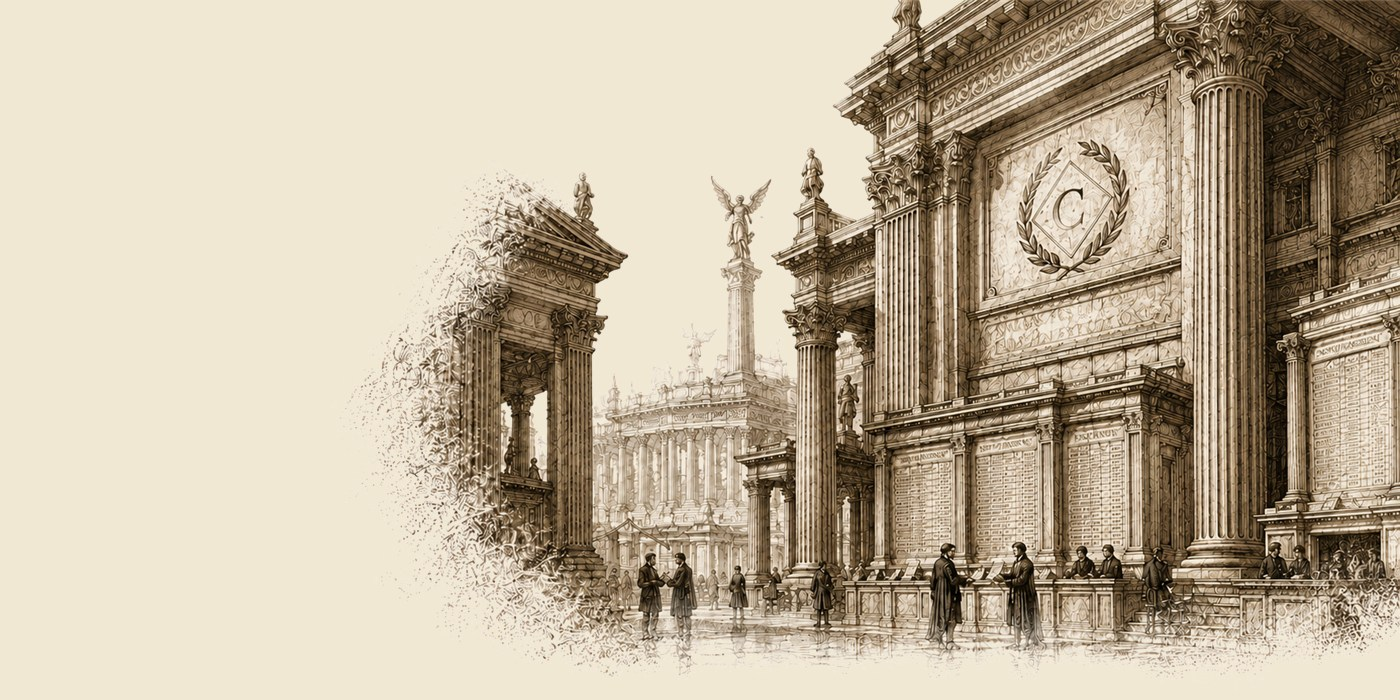
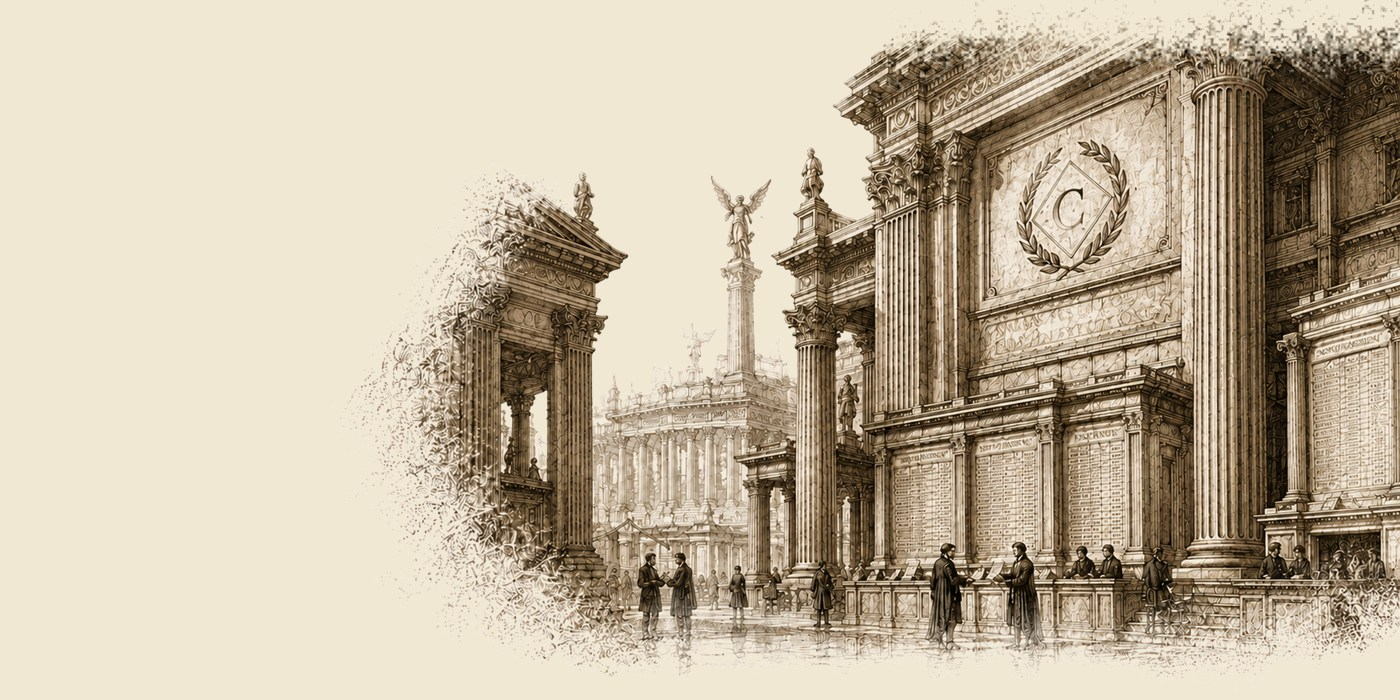
polish(market hero): dissolve the plate's top edge, lift the composition, fix the wrap
COMPOSITION WAS NOT TOO LOW — THE BOX WAS TOO TALL. align-items: center was
faithfully centring a fixed amount of content inside 748px of surplus. Shrinking
the box to 680 moves the centre up by half the difference and the smaller top
pad by half of that, ~52px, without touching a single position on the content.

THE PLATE HAD A HARD HORIZONTAL CUT ALONG ITS TOP. Measured, not assumed: mean
alpha at row 0 was 83 and the top 5% of the source carried 31.8% ink coverage,
so the architecture ran straight off the edge of its own canvas. A CSS gradient
mask would have removed it and looked like a digital wipe laid over an engraving.
tools/make-clearinghouse-plate.ps1 now thresholds a two-octave noise field
against depth so the ink breaks into speckle the way a copperplate does as the
inked area runs out — matching the plate's own left edge. First pass at 5/19px
read blocky against that stipple, so the octaves are 2.6/11px with a wider soft
window. Regenerating is idempotent; the asset stays ~250KB.

THE ARTWORK NOW ACTUALLY BLEEDS. Sized to fit, it stopped exactly at the
viewport edge and read as a picture placed on the page rather than a hall
continuing past it. Width is over-set by 190px under overflow: hidden, and it is
bounded — ~86% of the plate stays visible at 1440 and the laurel C ends at 81%,
so emblem, Victory, columns and operators are all clear of the cut. Shifted 30px
left and 20px up as asked.
[…]

Changed region(s): [[0.6143, 0.0, 1.0, 0.12]]

diff --git a/FRONTEND/src/views/ActiveContracts.js b/FRONTEND/src/views/ActiveContracts.js
@@ -176,7 +176,13 @@ export function renderActiveContracts() {
                survive the rewrite and quietly apply to something. */
             .mkh {
                 position: relative;
-                min-height: 748px;
+                /* 680, not 748. The composition was not too low — the BOX was too
+                   tall, and align-items: center was faithfully centring a fixed
+                   amount of content inside the surplus. Shortening the box moves
+                   the centre up by half the difference, and the smaller top pad
+                   moves it up by half of that: ~52px, without touching a single
+                   position on the content itself. */
+                min-height: 680px;
                 display: flex;
                 flex-direction: column;
                 overflow: hidden;
@@ -191,7 +197,7 @@ export function renderActiveContracts() {
                 max-width: 1760px;
                 width: 100%;
                 margin: 0 auto;
-                padding: 56px var(--mkh-gutter) 40px;
+                padding: 20px var(--mkh-gutter) 40px;
                 box-sizing: border-box;
             }
 
@@ -203,19 +209,34 @@ export function renderActiveContracts() {
                is 254KB for the same result. There is no boundary to hide because
                the plate's ground and the page's ground are the same value.
 
-               contain, not cover: the whole plate stays visible including the
-               irregular dissolve down its left side, and the empty cream margins
-               contain leaves are invisible for the same reason.
+               THE TOP EDGE IS DISSOLVED IN THE ASSET, NOT IN CSS. The original's
+               architecture ran straight off the top of its own canvas, leaving a
+               hard horizontal cut — a rectangular asset boundary. A CSS gradient
+               mask would have removed it, but a uniform fade reads as a digital
+               wipe laid over an engraving. tools/make-clearinghouse-plate.ps1
+               instead thresholds a two-octave noise field against depth, so the
+               ink breaks up into speckle the way a copperplate does as the inked
+               area runs out — the same character as the plate's left edge.
 
-               THE ELEMENT REACHES LEFT TO 32%, WELL UNDER THE COPY, and that is
-               deliberate rather than sloppy. The plate's own left third is bare
-               cream, so extending the box lets the engraving render larger
-               without the drawn part ever reaching the text. Only cream overlaps
-               the copy column. */
+               THE ELEMENT REACHES LEFT UNDER THE COPY, and that is deliberate
+               rather than sloppy: the plate's own left quarter is bare cream
+               (measured — 0.0% ink coverage out to 25%), so extending the box
+               lets the engraving render larger without the drawn part ever
+               reaching the text. Only cream overlaps the copy column.
+
+               WIDTH IS OVER-SET SO THE RIGHT ARCHITECTURE BLEEDS. Sized to fit,
+               the plate would stop exactly at the viewport edge and read as a
+               picture placed on the page rather than a hall continuing past it.
+               The extra 160px runs under .mkh's overflow: hidden. It is bounded:
+               ~86% of the plate stays visible at 1440, and the laurel C ends at
+               81%, so the emblem, Victory, the principal columns and the
+               operators are all clear of the cut. */
             .mkh-art {
                 position: absolute;
-                top: 0; right: 0; bottom: 0; left: 32%;
-                background: url("/assets/images/market-clearinghouse.jpg") center center / contain no-repeat;
+                top: 0; bottom: 0; right: auto;
+                left: calc(32% - 30px);
+                width: calc(68% + 190px);
+                background: url("/assets/images/market-clearinghouse.jpg") left calc(50% - 20px) / 100% auto no-repeat;
                 pointer-events: none;
                 z-index: 0;
             }
@@ -240,11 +261,28 @@ export function renderActiveContracts() {
                 margin: 0 0 28px;
             }
             .mkh-h1 .ox { color: var(--mkh-ox); }
+            /* MEASURE IS SET TO THE SECOND LINE, WHICH IS THE LONGEST. The wrap
+               wanted is
+                 Back verified operators—or stake on your own
+                 performance. Every contract settles automatically
+                 against live business data.
+               so the measure has to clear "…settles automatically" and fall short
+               of taking "against" up with it. Measured rather than guessed: that
+               window is NARROW and lower than it looks. Measured in EB Garamond
+               at 19px:
+                 line 1 alone ................................. 335px
+                 line 2 alone ................................. 354px  <- floor
+                 line 1 + "performance." ...................... 435px
+                 line 2 + "against" ........................... 408px  <- ceiling
+               so the measure has to sit in 355–407, and 384 is the middle of it.
+               Anything at or above 435 collapses to two lines and strands
+               "Every" at the end of the first — which is exactly what the old
+               500px was doing. */
             .mkh-lede {
                 font-family: "EB Garamond", Georgia, serif;
                 font-size: 19px; line-height: 1.58;
                 color: #4A4232;
-                max-width: 500px; margin: 0 0 40px;
+                max-width: 384px; margin: 0 0 28px;
             }
 
             .mkh-actions { display: flex; align-items: center; gap: 30px; }
@@ -274,11 +312,23 @@ export function renderActiveContracts() {
                 display: inline-flex; align-items: center; gap: 12px; padding: 4px 0;
             }
             .mkh-link .t { position: relative; display: inline-block; }
+            /* TWO RULES, BECAUSE ONE CANNOT DO BOTH JOBS. The resting underline
+               is part of the design, and the wipe is the interaction — but
+               scaleX from 1 to 1 is not a wipe. So ::before is the quiet resting
+               hairline and ::after is the full-strength rule that wipes in over
+               it from the left. Both live on .t, which wraps the label only, so
+               they measure the words and not the words plus a travelling arrow. */
+            .mkh-link .t::before,
             .mkh-link .t::after {
                 content: ""; position: absolute; left: 0; right: 0; bottom: -4px; height: 1px;
-                background: var(--mkh-ox); transform: scaleX(1); transform-origin: left center;
-                transition: transform 200ms ease-out;
+                background: var(--mkh-ox);
             }
+            .mkh-link .t::before { opacity: .34; }
+            .mkh-link .t::after {
+                transform: scaleX(0); transform-origin: left center;
+                transition: transform 260ms cubic-bezier(.22,.61,.36,1);
+            }
+            .mkh-link:hover .t::after, .mkh-link:focus-visible .t::after { transform: scaleX(1); }
             .mkh-link .a { color: var(--mkh-ox); display: inline-block; transition: transform 200ms ease-out; }
             .mkh-link:hover .a, .mkh-link:focus-visible .a { transform: translateX(4px); }
 
@@ -336,7 +386,10 @@ export function renderActiveContracts() {
             /* ---- responsive ---- */
             @media (max-width: 1180px) {
                 .mkh-copy { width: 50%; }
-                .mkh-art { left: 38%; }
+                /* Narrower viewport, so the plate steps right to stay off the
+                   copy — and the bleed shrinks with it, because 190px of
+                   overflow on a 1000px screen would cut into the emblem. */
+                .mkh-art { left: calc(38% - 30px); width: calc(62% + 110px); }
             }
             @media (max-width: 900px) {
                 /* Stacked: copy first, plate beneath the actions. The plate goes
@@ -350,16 +403,35 @@ export function renderActiveContracts() {
                    Explicit order puts the copy first without moving the markup,
                    which leaves the desktop stacking context alone. */
                 .mkh-copy { width: 100%; max-width: none; order: 1; }
-                .mkh-art { order: 2; }
                 /* !important ANSWERS AN !important. mobile.css sets a bare
                    h1 { font-size: clamp(24px,7vw,36px) !important } below 768px,
                    which captured this headline at 27.3px — 7vw of 390 exactly.
                    No class outranks !important, so this replies in kind. */
                 .mkh h1.mkh-h1 { font-size: clamp(44px, 9vw, 64px) !important; line-height: .98 !important; letter-spacing: .004em !important; }
                 .mkh-lede { max-width: none; }
+                /* EVERY DESKTOP OFFSET IS UNSET HERE, not adjusted — a calc()
+                   left edge and a 190px bleed are the two things that clip at
+                   narrow widths.
+                   ORDER 2, because the plate is FIRST in the DOM: it is
+                   absolutely positioned on desktop so source order is irrelevant
+                   there, but the moment it returns to flow it renders ABOVE the
+                   headline. Explicit order fixes that without moving the markup.
+                   THE CROP TAKES ONLY CREAM. Fitting the whole 2:1 plate into a
+                   phone's width leaves the architecture too small to read, so it
+                   is scaled up and anchored right — and because the plate's left
+                   22% is measured bare (0.0% ink out to 25%), that enlargement
+                   cuts nothing but empty ground and leaves no hard edge. Victory,
+                   the emblem and the operators all sit inside what remains.
+                   aspect-ratio rather than a fixed height, so the box is exactly
+                   as tall as the image at every width and never bands it with
+                   dead cream. */
                 .mkh-art {
                     position: relative; left: auto; right: auto; top: auto; bottom: auto;
-                    width: 100%; height: clamp(360px, 46vw, 480px); margin-top: 34px;
+                    order: 2;
+                    width: 100%; height: auto; aspect-ratio: 1.5625;
+                    background-size: 128% auto;
+                    background-position: right center;
+                    margin-top: 30px;
                 }
                 .mkh-strip-in { flex-direction: column; align-items: flex-start; gap: 13px; padding: 15px var(--mkh-gutter); }
                 .mkh-metrics { flex-wrap: wrap; gap: 12px 16px; }
